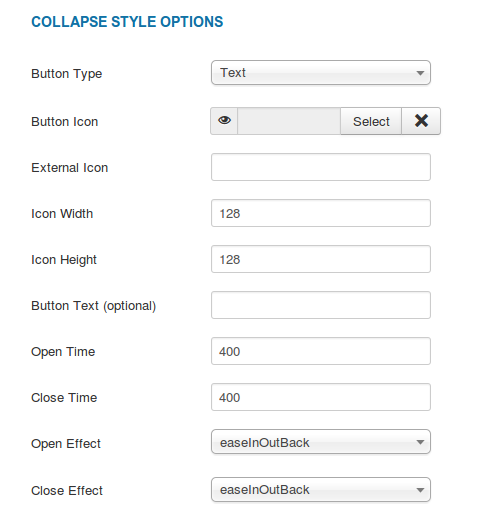
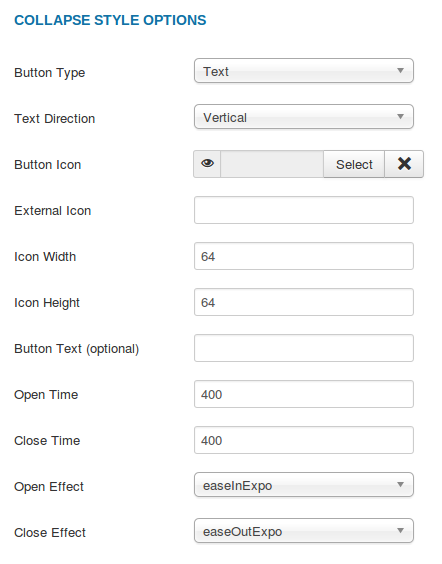
Adding new features for upcoming 0.1.8 release

diff --git a/docs/joomla/extensions/social/guide.md b/docs/joomla/extensions/social/guide.md
@@ -3,7 +3,7 @@
     -   [Control Panel](#control-panel)
     -   [Inbuilt Help](#help)
     -   [Extension Options](#options)
-        - [1. Extra Options \[Pro Version\]](#options-extra)
+        - [1. General Options \[Pro Version\]](#options-general)
         - [2. Content Plugin Options \[Pro Version\]](#options-content)
         - [3. Panel Plugin Options \[Pro Version\]](#options-panel)
         - [4. Open Graph Plugin Options \[Pro Version\]](#options-og)
@@ -14,7 +14,9 @@
 2.  [Social Module Guide](#module)
     -   [General Display Options](#mod-general)
     -   [Create Custom Theme](#mod-custom-theme)
-    -   [Bookmark This Options](#mod-bookmark)
+    -   [Bookmark This General](#mod-bookmark-gen)
+    -   [Bookmark This Social](#mod-bookmark-soc)
+        - [1. Create Facebook Application](#mod-bookmark-fbapp)
     -   [Follow Us Options](#mod-follow)
     -   [Advanced Options](#mod-advanced)
 
@@ -67,7 +69,7 @@ out leaving the control panel. *\[Figure-2\]*
 
 <span class="info" markdown="1">In the control panel or the tool menu you have a options icon that when clicked will open a pop up containing the various extension options.</span>
 
-### 1. <a name="options-extra"></a>Extra Options \[Pro Version\]
+### 1. <a name="options-general"></a>General Options \[Pro Version\]
 
 #### URL Shortener
 
@@ -120,7 +122,9 @@ Next select **Credentials** from the left menu and your API Key should be listed
 
 #### Part 1 - Display Where
 
-The first option allows you to choose if you want the social buttons to
+The first option is to turn on or off the display of the content social buttons. This option does in essence the same thing as unpublishing the associated plugin with out the hassle of searching through the plugins.
+
+The next option allows you to choose if you want the social buttons to
 be displayed everywhere for example in all items displayed in a blog
 layout or only when you have selected a particular article. This will
 affect the display of the buttons in both Joomla and K2.
@@ -134,9 +138,7 @@ and select the categories with your mouse. *\[Figure-3\]*
 
 #### Part 2 - Layout
 
-Next are the **Layout Options** here you can choose to display the
-buttons above or below the content and also the button style either
-**Vertical** \[Bubble\] or **Horizontal**. *\[Figure-3a\]*
+Next are the **Layout Options** here you can choose to display the buttons above the content, below the content or both. The buttons also have style options associated with them, you can display them in **Vertical** \[Bubble\], **Horizontal** or with **No Count**. The only exception is the **Mail Count** button that can only be displayed in **Vertical**. . *\[Figure-3a\]*
 
 ![Figure-3a](images/docs/joomla/extensions/social-links/cw-slinks-config-content2.png "Figure-3a"){.coalaweb-docs}
 
@@ -155,27 +157,19 @@ buttons in Joomla and K2. *\[Figure-3b\]*
 
 #### Part 1 - Display Where
 
-To make it easy to turn on or off the Social Panel plugin completely I
-have included a Load Panel option this will save you having to open up
-the plugin manager to disable it. The next two options give you an
-opportunity to select which categories you wish the panel to be
-displayed in for both Joomla and K2. If you wish to select more than one
-just hold down **Shift** on your keyboard and select the categories with
-your mouse. *\[Figure-23a\]*
+To make it easy to turn on or off the Social Panel plugin completely I have included a Load Panel option this will save you having to open up the plugin manager to disable it. The next two options give you an opportunity to select which categories you wish the panel to be displayed in for both Joomla and K2. If you wish to select more than one just hold down **Shift** on your keyboard and select the categories with your mouse. *\[Figure-23a\]*
 
 ![Figure-23a](images/docs/joomla/extensions/social-links/cw-slinks-config-panel2.png "Figure-23a"){.coalaweb-docs}
 
 #### Part 2 - Layout & Style
 
-Next are the **Layout & Style Options** these options will affect both
-the Fixed and Collapse style layouts. First you can choose if you want
-the panel to be visible all the time displayed to the side of the
-article content or Collapse which will hide the panel off the side of
-the page. The Collapse option becomes visible by clicking a tab that
-extends from the side of the page. The next option allows you to choose
-which side you want the panel displayed on.The next option allows you to
-choose a **Theme** for the panel. I have included a few and will expand
-it over time but if you want to create your own have a look below.
+Next are the **Layout & Style Options** these options will affect both the Fixed and Collapse style layouts. First you can choose if you want the panel to be visible all the time displayed to the side of the article content or Collapse which will hide the panel off the side of the page. The Collapse option becomes visible by clicking a tab that extends from the side of the page. 
+
+The next option allows you to choose which side you want the panel displayed on.
+
+The next option allows you to choose a **Theme** for the panel. I have included a few and will expand it over time but if you want to create your own have a look below.
+
+The buttons also have style options associated with them, you can display them in **Vertical** \[Bubble\], or with **No Count**. The only exception is the **Mail Count** button that can only be displayed in **Vertical**.
 
 #### Creating your own theme
 
@@ -211,7 +205,7 @@ just enter a number, 5 is the default and works well in most situations. *\[Figu
 
 The next couple of option only affect the Collapse panel style. First
 you can choose the type of button(tab) to want to use to trigger the
-display of the panel. If you choose Icon you will have to fill in three
+display of the panel. If you choose **Text** in the next option you can decide to have the text/button displayed vertically or horizontal. If you choose **Icon** you will have to fill in three
 of the next four options. First choose the icon you wish to use it can
 be stored locally or you can use an external URL for the image. Next set
 the width and height of the icon in pixels. Note: Just enter a number
@@ -239,30 +233,28 @@ buttons in Joomla and K2. *\[Figure-23e\]*
 
 ![Figure-23e](images/docs/joomla/extensions/social-links/cw-slinks-config-panel6.png "Figure-23e"){.coalaweb-docs}
 
-### 4. <a name="options-og"></a>Open Graph Plugin Options \[Pro Version\]
+### 4. <a name="options-og"></a>Metadata Plugin Options \[Pro Version\]
 
-The **CoalaWeb Open Graph** plugin will help generate meta data in the
-Open Graph format and then place it in the head of your web pages. This
-information will then be used by elements such as the Facebook vote and
+The **CoalaWeb Metadata** plugin will help generate meta data in the
+**Open Graph** and **Twitter Card** formats and then place it in the head of your web pages. This
+information will then be used by elements such as the Facebook and Twitter vote and
 share buttons to get the best representation of the content being shared
 or voted on.
 
-<span class="info" markdown="1">To make it easier to follow I have broken up the **Open Graph Options** into three parts.</span>
+<span class="info" markdown="1">To make it easier to follow I have broken up the **Metadata Options** into four parts.</span>
 
 #### Part 1 - Display Where
 
-The first option **Only Articles** allows you to choose if you want to
-add Open Graph information to only the article views or to **Category
-Blog** and **Featured** views as well. *\[Figure-4\]*
+The first option **Only Articles** allows you to choose if you want to add **Metadata** information to only the article views or to **Category Blog** and **Featured** views as well. *\[Figure-4\]*
 
-![Figure-4](images/docs/joomla/extensions/social-links/cw-slinks-config-opengraph1.png "Figure-4"){.coalaweb-docs}
+![Figure-4](images/docs/joomla/extensions/social-links/cw-slinks-config-metadata1.png "Figure-4"){.coalaweb-docs}
 
 #### Part 2 - Default
 
 ##### Title
 
 If you have chosen a **Default Title** this will always display next to
-**og:title** meta tag.  *\[Figure-4a\]* 
+**og:title** and **twitter:title** meta tags.  *\[Figure-4a\]* 
 
 **\[It's recommended to leave this parameter blank\]**
 
@@ -276,7 +268,7 @@ will be populated like this:
 ##### URL
 
 If you have chosen a **Default URL** this will always displayed next to
-**og:url** meta tag. **Note:It's recommended to leave this parameter
+**og:url** and **twitter:url** meta tags. **Note:It's recommended to leave this parameter
 blank.** If you haven’t chosen a default URL the plugin will use the
 current URL of the page being viewed. *\[Figure-4a\]*
 
@@ -296,8 +288,7 @@ provide a concise summary of the page in approximately 200 characters or
 fewer. *\[Figure 4a\]*
 
 -   **1st attempt:** If you have chosen a **Default Description** this
-    will always displayed next to **og:description** meta tag. **Note:It's
-    recommended to leave this parameter blank**
+    will always displayed next to **og:description** and **twitter:description** meta tags. **Note:It's recommended to leave this parameter blank**
 -   **2nd Attempt:** If you haven’t chosen a default description the
     plugin will move onto the meta description of the article being
     viewed or of the first one displayed in Blog or Featured view.
@@ -307,19 +298,13 @@ fewer. *\[Figure 4a\]*
     extract the first 300 words of the intro text and use those as your
     description.
 
-##### Type
-
-Choose one of the option from the drop down list. Article is the default
-choice. *\[Figure-4b\]*
-
 ##### Image
 
 Let's face it the image is very important so I have put a bit more time
 into how it will be found. *\[Figure-4a\]*
 
 -   **1st attempt:** If you have chosen a **Default Image** this will
-    always be displayed next to **og:image** meta tag. **Note:It's
-    recommended to leave this parameter blank**
+    always be displayed next to **og:image** and **twitter:image** meta tags. **Note:It's recommended to leave this parameter blank**
 -   **2nd attempt:** If you haven’t chosen a default image the plugin
     will move onto searching the cwopengraph folder
     **\[images/cwopengraph\]** for an image that matches the id of the
@@ -327,23 +312,56 @@ into how it will be found. *\[Figure-4a\]*
     latest article which has an ID of 1 then rename the image you want
     to use to 1.jpg and upload it to the image/cwopengraph folder. The
     plugin will search in this folder for matching images and if it
-    finds one it will be add to the og:image meta tag. Supported image
+    finds one it will be add to the **og:image** and **twitter:image** meta tags. Supported image
     types are jpg, png and gif.
 -   **Last attempt:** The last thing the plugin will do is search
     through the article content to find an image and if it does that
-    image will be add to the og:image meta tag.
+    image will be add to the **og:image** and **twitter:image** meta tags.
 
 <span class="tip" markdown="1">Note: FB will only use images that are at least 200x200 px. FB prefers images that are measured in multiples of 100 and square format.</span>
 
-![Figure-4a](images/docs/joomla/extensions/social-links/cw-slinks-config-opengraph2.png "Figure-4a"){.coalaweb-docs}
+<span class="tip" markdown="1">Note: Twitter will only use images that are at least 280x150 px.</span>
 
-#### Part 3 - Advanced
+![Figure-4a](images/docs/joomla/extensions/social-links/cw-slinks-config-metadata2.png "Figure-4a"){.coalaweb-docs}
 
-##### Application ID
+#### Part 3 - Facebook Only
 
-Here you can enter your Facebook Application ID. *\[Figure-4b\]*
+##### Add Open Graph
 
-![Figure-4b](images/docs/joomla/extensions/social-links/cw-slinks-config-opengraph3.png "Figure-4b"){.coalaweb-docs}
+Turn on or off the inclusion of **Open Graph** meta tags. *\[Figure-4b\]*
+
+##### Type
+
+Choose one of the option from the drop down list. Article is the default choice. *\[Figure-4b\]*
+
+##### Application ID and Administrators
+
+Here you can enter your Facebook Application ID (optional) and or Administrators (optional). *\[Figure-4b\]*
+
+##### Add Namespace
+
+This option allows you to add the Open Graph protocol **namespaces** to our `<head>` tag.  *\[Figure-4b\]*
+
+`xmlns:og="http://ogp.me/ns#"` 
+`xmlns:fb="http://ogp.me/ns/fb#"`
+
+![Figure-4b](images/docs/joomla/extensions/social-links/cw-slinks-config-metadata3.png "Figure-4b"){.coalaweb-docs}
+
+#### Part 4 - Twitter Only
+
+##### Add Twitter Card
+
+Turn on or off the inclusion of **Twitter Card** meta tags. *\[Figure-4c\]*
+
+##### Website @username
+
+Here you can enter the Twitter **@username** for the website used in the card footer.*\[Figure-4c\]*
+
+##### Content @username
+
+Here you can enter the Twitter **@username** for the content author. *\[Figure-4c\]*
+
+![Figure-4c](images/docs/joomla/extensions/social-links/cw-slinks-config-metadata4.png "Figure-4c"){.coalaweb-docs}
 
 ### 5. <a name="options-updates"></a>Update Options
 
@@ -409,9 +427,9 @@ Creating a theme is easy, just copy the custom-example folder found in:
 Give the theme a different name, edit the files as needed and of course add your custom icons. 
 All the folders located in the themes-icon directory will automatically be listed in the **Icon Styles** select list.
 
-### <a name="mod-bookmark"></a>Bookmark This Options
+### <a name="mod-bookmark-gen"></a>Bookmark This General
 
-<span class="info" markdown="1">To make it easier to follow I have broken up the **Bookmark This Options** into two parts.</span>
+<span class="info" markdown="1">To make it easier to follow I have broken up the **Bookmark This General** into two parts.</span>
 
 #### Part 1 - Default
 
@@ -435,11 +453,28 @@ border color but only if you selected yes to **Display Borders** in the
 **General Display Options** section. This border will surround the
 **Bookmark This** part of the module. You can enter a \# followed by a
 color reference code such as \#000000 for black or you can use the color
-chooser box to the right of the input field. For the social bookmark
-options themselves, scroll down the list ticking the ones you want to
-display and that's it for the **Bookmark This** section. *\[Figure-10a\]*
+chooser box to the right of the input field. The last option is used to display some text above the **Bookmark This** section of the module.*\[Figure-10a\]*
 
 ![Figure-10a](images/docs/joomla/extensions/social-links/cw-slinks-mod-config-bookmark2.png "Figure-10a"){.coalaweb-docs}
+
+### <a name="mod-bookmark-soc"></a>Bookmark This Social
+
+#### Part 1 - Facebook
+
+*\[Figure-10b\]*
+
+![Figure-10b](images/docs/joomla/extensions/social-links/cw-slinks-mod-config-bookmark3.png "Figure-10b"){.coalaweb-docs}
+
+
+### 1. <a name="mod-bookmark-fbapp"></a>Create Facebook Application
+
+To get a **Facebook App ID** requires you to first create a Facebook Application but don’t worry it’s an easy process which we will walk your through in this ![GUIDE](http://coalaweb.com/support-menu/documentation/item/create-facebook-application "Facebook App Guide").
+
+#### Part 2 - Social Options
+
+For the social bookmark options themselves, scroll down the list ticking the ones you want to display and that's it for the **Bookmark This** section.*\[Figure-10c\]*
+
+![Figure-10c](images/docs/joomla/extensions/social-links/cw-slinks-mod-config-bookmark4.png "Figure-10c"){.coalaweb-docs}
 
 ### <a name="mod-follow"></a>Follow Us Options
 

diff --git a/docs/joomla/extensions/social/system-parts.md b/docs/joomla/extensions/social/system-parts.md
@@ -6,8 +6,7 @@ vote for particular content with social buttons.
 
 ## Component
 
-The Component makes setting up the content plugins a breeze as well as making 
-updating to a new version a one click procedure.
+The Component makes setting up the content plugins a breeze by having a centralized location for all their associated configuration options. It also provides quick access to help and support plus current version information. The other great thing the component does is take care of the installing, updating and uninstalling of all the associated parts of the system which makes the process much more streamlined.
 
 ## Modules
 
@@ -23,6 +22,10 @@ The Facebook Like Box module is a social module that enables Facebook Page
 owners to attract and gain likes. The like box enables people using your website
 to see how many people like the Page, read recent posts from the Page and like 
 the Page with one click, without needing to visit the Page.
+
+### Tabs  \[Pro Version\]
+
+The Tabs module displays a series of tabs on either side of the page that slide in and out when hovered over. It gives you the option to display share, follow us or both types including the ability to create custom follow us tabs. It's packed full of other configuration options including the ability to reorder the tabs and choose their colors which help make it as flexible as possible.
 
 ### Google Plus \[Pro Version\]
 
